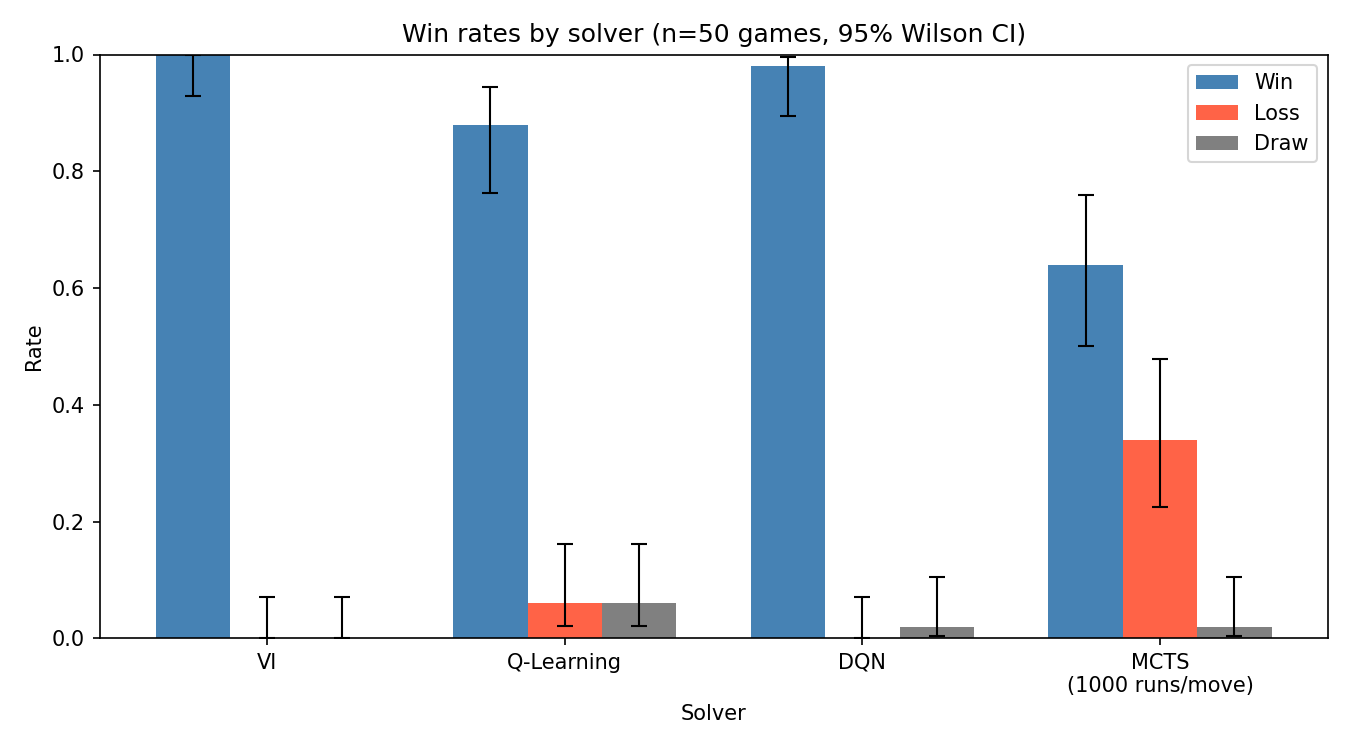
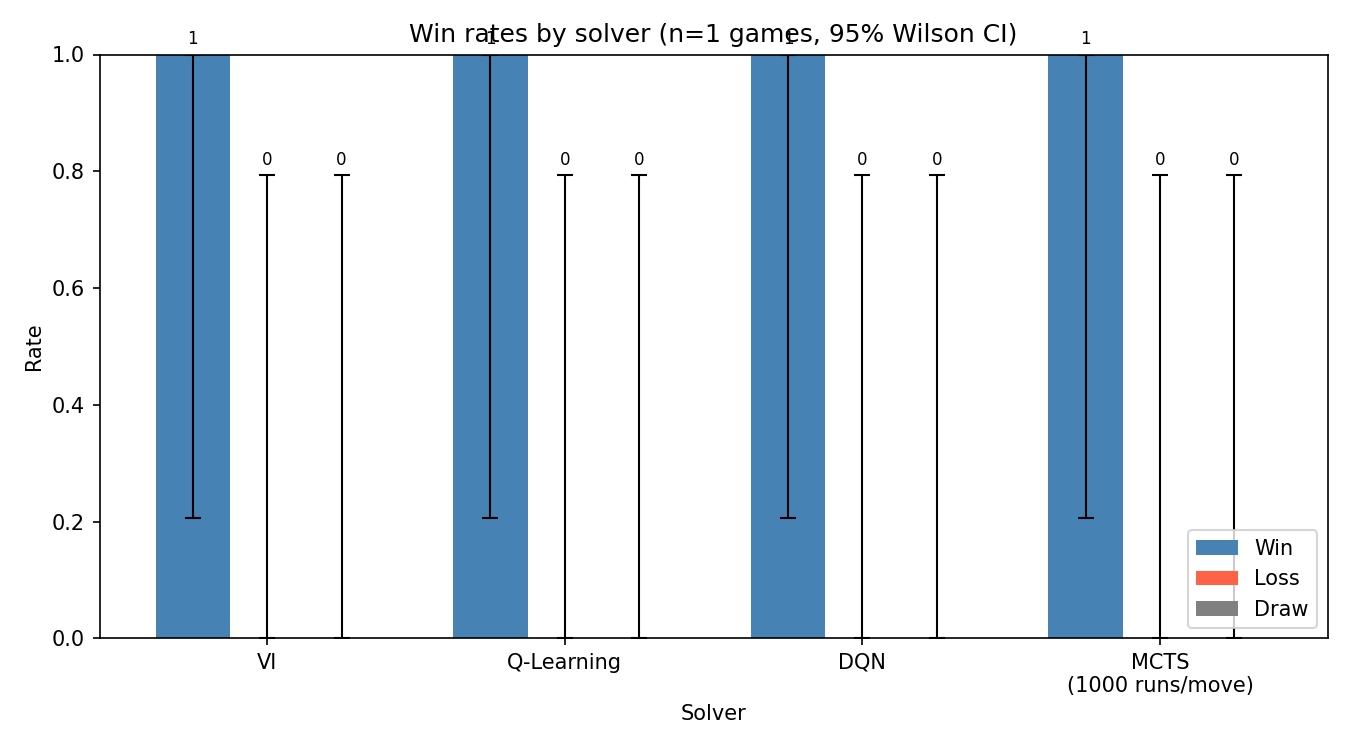
More plotting updates

diff --git a/code/plot_pomdp.py b/code/plot_pomdp.py
@@ -134,12 +134,15 @@ vi_win_rate = _run_mdp_games(env_det, vi_det.policy, N_GAMES)
 bw = 0.25
 fig1, ax1 = plt.subplots(figsize=(8, 5))
 x = np.arange(len(levels))
-ax1.bar(x - bw, wins1,   bw, label='Win',  color='steelblue',
-        yerr=_bar_yerr(wins1,   N_GAMES), capsize=4, error_kw={'elinewidth': 1})
-ax1.bar(x,      losses1, bw, label='Loss', color='tomato',
-        yerr=_bar_yerr(losses1, N_GAMES), capsize=4, error_kw={'elinewidth': 1})
-ax1.bar(x + bw, draws1,  bw, label='Draw', color='gray',
-        yerr=_bar_yerr(draws1,  N_GAMES), capsize=4, error_kw={'elinewidth': 1})
+c_win = ax1.bar(x - bw, wins1,   bw, label='Win',  color='steelblue',
+               yerr=_bar_yerr(wins1,   N_GAMES), capsize=4, error_kw={'elinewidth': 1})
+c_los = ax1.bar(x,      losses1, bw, label='Loss', color='tomato',
+               yerr=_bar_yerr(losses1, N_GAMES), capsize=4, error_kw={'elinewidth': 1})
+c_drw = ax1.bar(x + bw, draws1,  bw, label='Draw', color='gray',
+               yerr=_bar_yerr(draws1,  N_GAMES), capsize=4, error_kw={'elinewidth': 1})
+ax1.bar_label(c_win, labels=[str(round(p * N_GAMES)) for p in wins1],   padding=3, fontsize=8)
+ax1.bar_label(c_los, labels=[str(round(p * N_GAMES)) for p in losses1], padding=3, fontsize=8)
+ax1.bar_label(c_drw, labels=[str(round(p * N_GAMES)) for p in draws1],  padding=3, fontsize=8)
 ax1.axhline(vi_win_rate, color='black', linestyle='--', linewidth=1.2,
             label='MDP VI win rate (full info)')
 ax1.set_xticks(x)
@@ -232,12 +235,15 @@ draws3  = [r[2] for r in results3]
 
 fig3, ax3 = plt.subplots(figsize=(8, 5))
 x = np.arange(len(conditions))
-ax3.bar(x - bw, wins3,   bw, label='Win',  color='steelblue',
-        yerr=_bar_yerr(wins3,   N_GAMES), capsize=4, error_kw={'elinewidth': 1})
-ax3.bar(x,      losses3, bw, label='Loss', color='tomato',
-        yerr=_bar_yerr(losses3, N_GAMES), capsize=4, error_kw={'elinewidth': 1})
-ax3.bar(x + bw, draws3,  bw, label='Draw', color='gray',
-        yerr=_bar_yerr(draws3,  N_GAMES), capsize=4, error_kw={'elinewidth': 1})
+c_win = ax3.bar(x - bw, wins3,   bw, label='Win',  color='steelblue',
+               yerr=_bar_yerr(wins3,   N_GAMES), capsize=4, error_kw={'elinewidth': 1})
+c_los = ax3.bar(x,      losses3, bw, label='Loss', color='tomato',
+               yerr=_bar_yerr(losses3, N_GAMES), capsize=4, error_kw={'elinewidth': 1})
+c_drw = ax3.bar(x + bw, draws3,  bw, label='Draw', color='gray',
+               yerr=_bar_yerr(draws3,  N_GAMES), capsize=4, error_kw={'elinewidth': 1})
+ax3.bar_label(c_win, labels=[str(round(p * N_GAMES)) for p in wins3],   padding=3, fontsize=8)
+ax3.bar_label(c_los, labels=[str(round(p * N_GAMES)) for p in losses3], padding=3, fontsize=8)
+ax3.bar_label(c_drw, labels=[str(round(p * N_GAMES)) for p in draws3],  padding=3, fontsize=8)
 ax3.set_xticks(x)
 ax3.set_xticklabels(conditions)
 ax3.set_xlabel('Solver / planning model')

diff --git a/code/plot_v0.py b/code/plot_v0.py
@@ -31,7 +31,7 @@ mcts_eval = MCTSSolver(env, c=sqrt(2), depth=20, num_runs=200)
 
 # ── Win-rate helpers ──────────────────────────────────────────────────────────
 
-N_EVAL = 50
+N_EVAL = 100
 
 def _wilson_ci(p, n, z=1.96):
     denom  = 1 + z**2 / n
@@ -107,12 +107,15 @@ for label, π in zip(solvers, policies):
 bw = 0.25
 fig3, ax3 = plt.subplots(figsize=(9, 5))
 x = np.arange(len(solvers))
-ax3.bar(x - bw, wins3,   bw, label='Win',  color='steelblue',
-        yerr=_bar_yerr(wins3,   N_EVAL), capsize=4, error_kw={'elinewidth': 1})
-ax3.bar(x,      losses3, bw, label='Loss', color='tomato',
-        yerr=_bar_yerr(losses3, N_EVAL), capsize=4, error_kw={'elinewidth': 1})
-ax3.bar(x + bw, draws3,  bw, label='Draw', color='gray',
-        yerr=_bar_yerr(draws3,  N_EVAL), capsize=4, error_kw={'elinewidth': 1})
+c_win = ax3.bar(x - bw, wins3,   bw, label='Win',  color='steelblue',
+               yerr=_bar_yerr(wins3,   N_EVAL), capsize=4, error_kw={'elinewidth': 1})
+c_los = ax3.bar(x,      losses3, bw, label='Loss', color='tomato',
+               yerr=_bar_yerr(losses3, N_EVAL), capsize=4, error_kw={'elinewidth': 1})
+c_drw = ax3.bar(x + bw, draws3,  bw, label='Draw', color='gray',
+               yerr=_bar_yerr(draws3,  N_EVAL), capsize=4, error_kw={'elinewidth': 1})
+ax3.bar_label(c_win, labels=[str(round(p * N_EVAL)) for p in wins3],   padding=3, fontsize=8)
+ax3.bar_label(c_los, labels=[str(round(p * N_EVAL)) for p in losses3], padding=3, fontsize=8)
+ax3.bar_label(c_drw, labels=[str(round(p * N_EVAL)) for p in draws3],  padding=3, fontsize=8)
 ax3.set_xticks(x)
 ax3.set_xticklabels(solvers)
 ax3.set_xlabel('Solver')

diff --git a/code/transition.py b/code/transition.py
@@ -146,11 +146,9 @@ class TransitionModel:
         return True  # attacks always valid
     
     def build_uniform_P2(self) -> None:
-        # Replace T_P2 with a uniform mixture over all actions (i.e., stochastic opponent policy)
-        T_P2 = sum(self._T_base[a] for a in [
-            Action.P2_TRAIN_WORKERS, Action.P2_TRAIN_MARINES, Action.P2_ATTACK
-        ]) / 3
-        self.T = {a: self._T_base[a] @ T_P2 @ self._T_res for a in self.ACTIONS_P1}
+        n = len(self._states)
+        sigma = np.full((n, 3), 1.0 / 3.0)
+        self.update_P2_policy(sigma)
 
     def __getitem__(self, action):
         if not self.T:
